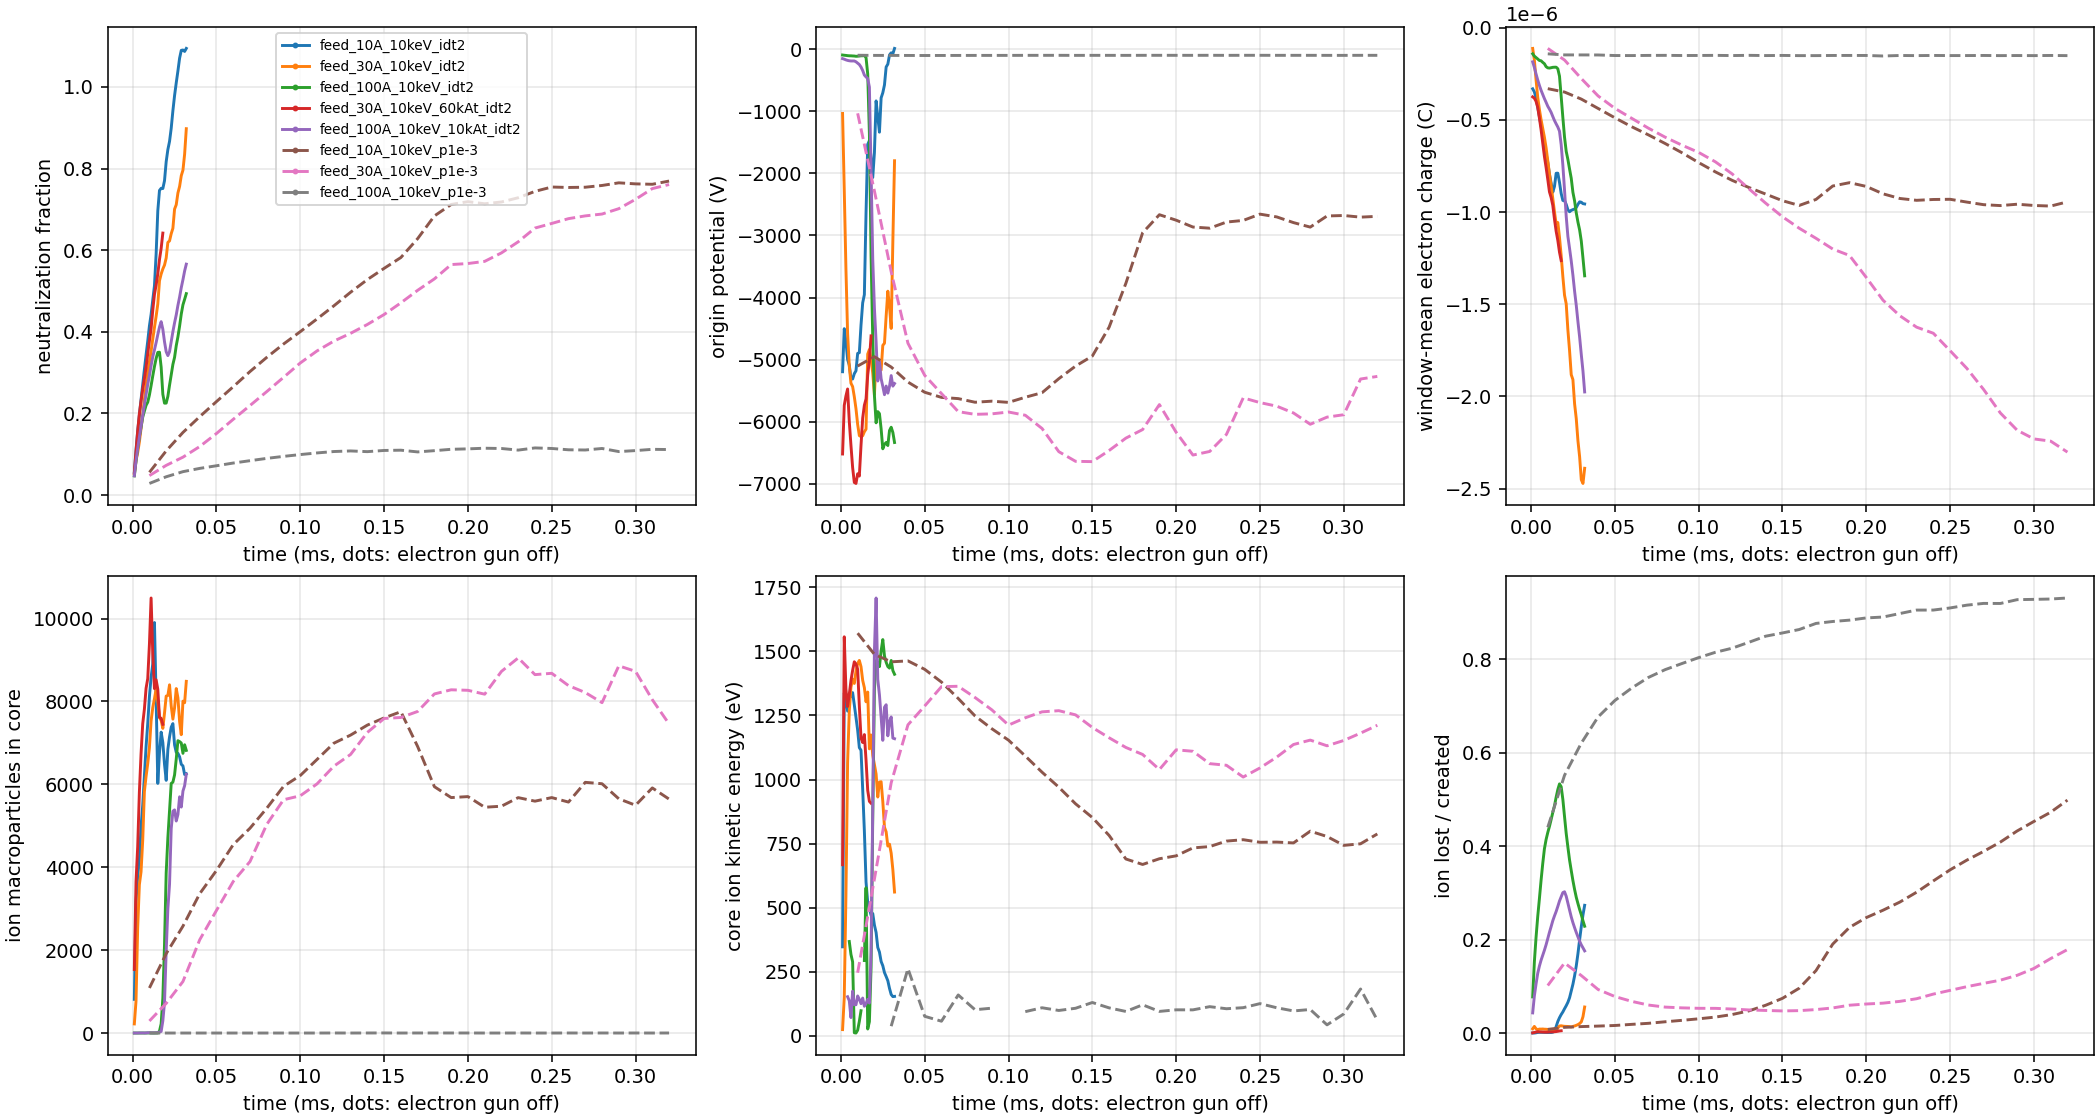
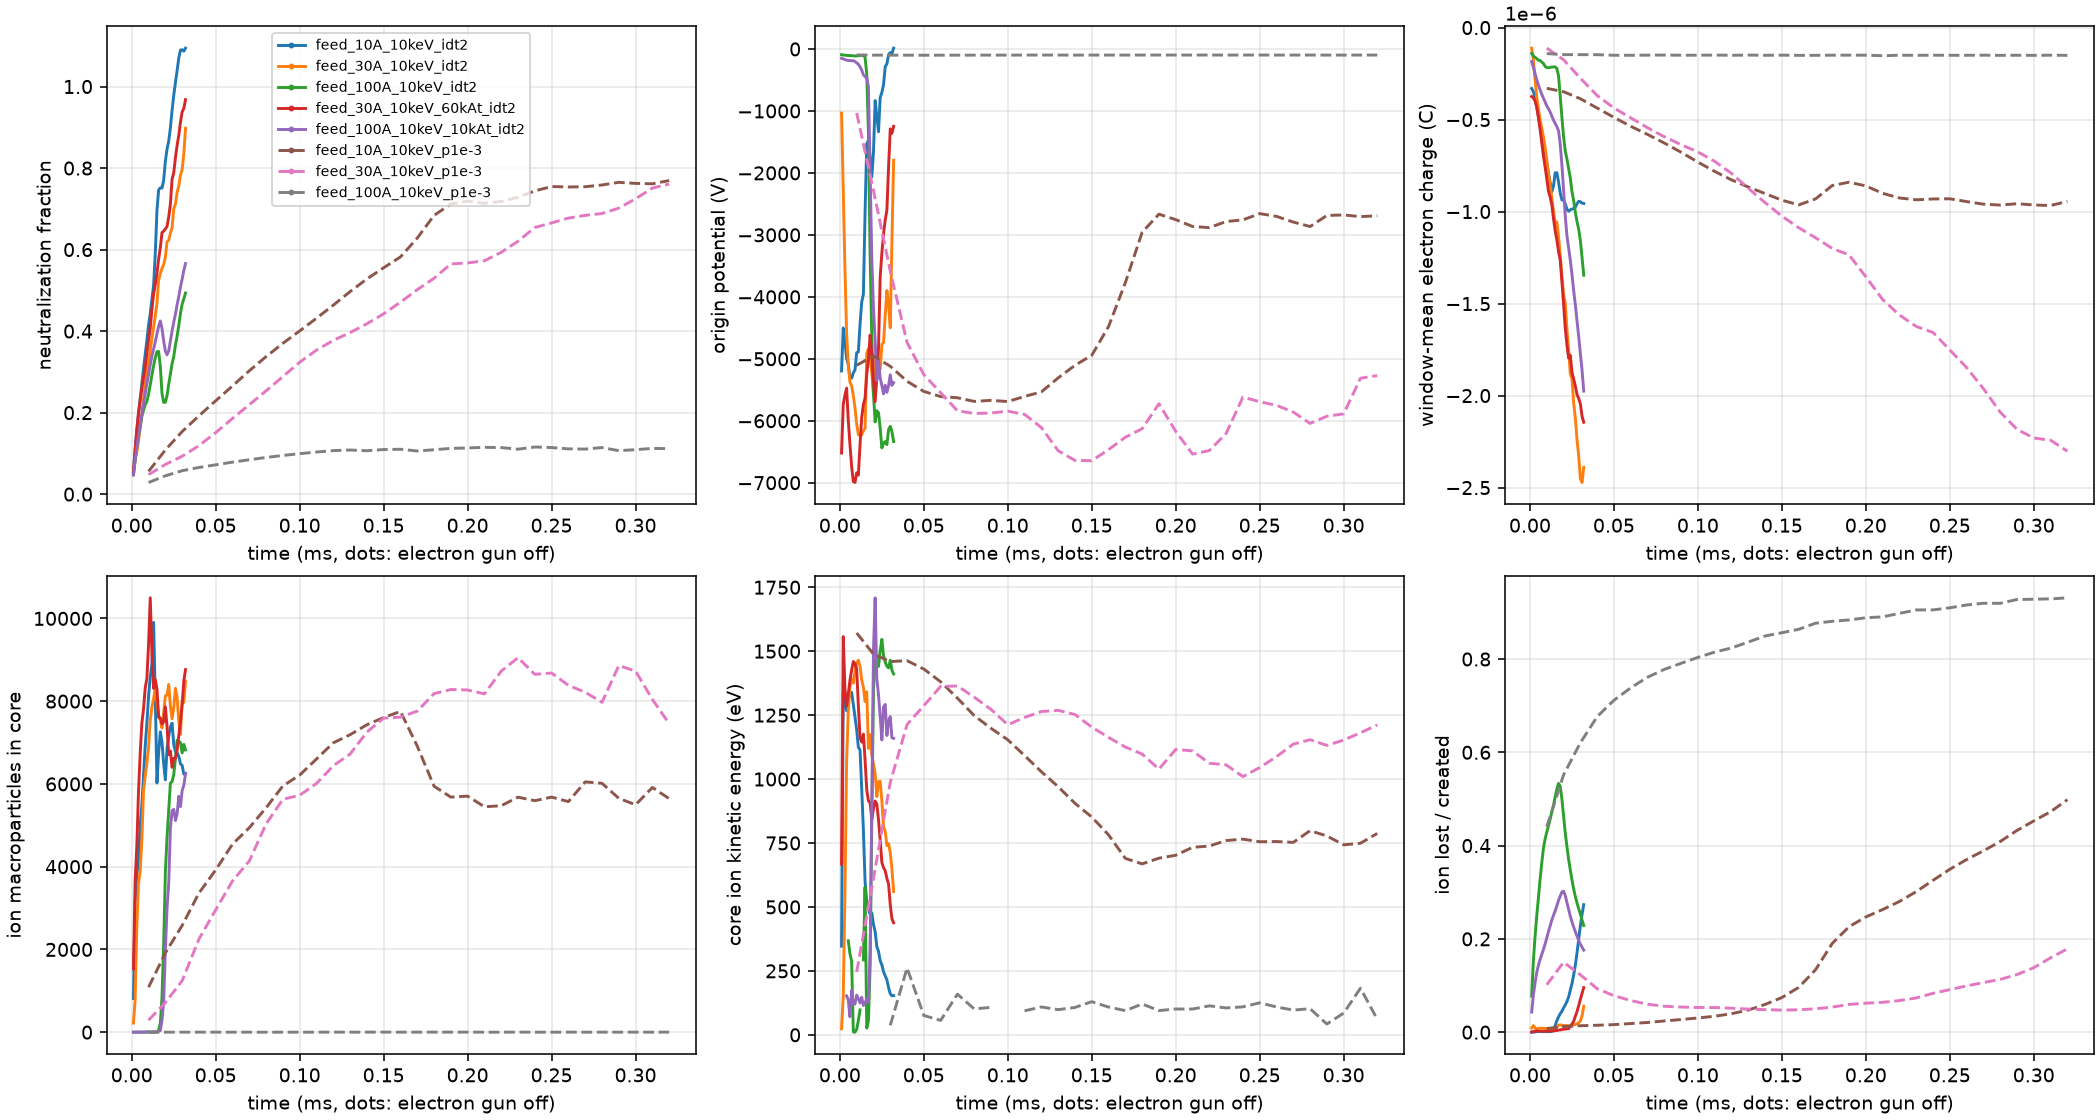
Publish complete high-feed campaign including 60 kA-turn case

diff --git a/web/src/figures.ts b/web/src/figures.ts
@@ -24,7 +24,7 @@ const studies: Study[] = [
   },
   {
     id: "six-coil-feed-fine", title: "High electron feed: 10–100 A with H2 ions (six-coil)",
-    summary: "10 keV gun at 10–100 A, H2 at 1e-3 Pa (320 µs) and 1e-2 Pa (32 µs, transient), 7 of 8 cases complete (60 kA-turn still running, not interpreted). At 1e-3 Pa, 10 A levels off at 0.76 neutralization with the centre at −2.7 kV and ~0.8 keV core ions; 30 A holds −5.7 kV but is still settling. 1 A at the same pressure lost its well. 100 A chokes: a −15 to −23 kV virtual cathode forms at the gun mouth and 99.8% of lost ions fall into the gun barrel. One seed, no cycle-duration control yet.",
+    summary: "10 keV gun at 10–100 A, H2 at 1e-3 Pa (320 µs) and 1e-2 Pa (32 µs, transient), all 8 cases complete. At 1e-3 Pa, 10 A levels off at 0.76 neutralization with the centre at −2.7 kV and ~0.8 keV core ions; 30 A holds −5.7 kV but is still settling. 1 A at the same pressure lost its well. 100 A chokes: a −15 to −23 kV virtual cathode forms at the gun mouth and 99.8% of lost ions fall into the gun barrel. Coils are a weak knob: 60 kA-turn at 30 A (1e-2 Pa) is no deeper than 30 kA-turn. One seed, no cycle-duration control yet.",
     doc: "ion-pic-design.md", figures: pair("six-coil-feed-fine", "High feed"),
   },
   {

diff --git a/docs/ion-pic-design.md b/docs/ion-pic-design.md
@@ -226,11 +226,11 @@ At the first 10 µs cycle the 1 A origin potential is −2.6 kV with −157 nC o
 `run_pic_campaign.py --study six-coil-feed-fine`: the six-coil trap with H2 and H2+, 10 keV gun at
 10–100 A, 10/30/60 kA-turn. Two groups: 1e-2 Pa for 32 × 1 µs cycles with a 0.2 ns ion step (the
 1 ns cases of `six-coil-feed` failed the `omega_pi * dt` check), and 1e-3 Pa for 32 × 10 µs cycles
-(320 µs, 0.5–1 ns ion step). Seven of eight cases have `DONE` and every cycle; ion charge balance
-stayed below 3e-19 C. `feed_30A_10keV_60kAt_idt2` had 18/32 cycles and is not interpreted.
+(320 µs, 0.5–1 ns ion step). All eight cases have `DONE` and every cycle; ion charge balance
+stayed below 3e-19 C.
 Raw output: `/public/jonathan/cusp/runs/pic-98784dc572d0/attempt-20260913-194000-421552263`.
 Summary: `docs/data/pic-six-coil-feed-fine-0efa509.json` (`analyze_ion_pic.py --study
-six-coil-feed-fine --partial`). Last-quarter means; "gun" is the share of lost ions absorbed by the
+six-coil-feed-fine`). Last-quarter means; "gun" is the share of lost ions absorbed by the
 gun barrel.
 
 | Case | Gas | Neutralization | Origin | Gun-mouth minimum | Electron charge | Core ion KE | Ions lost | Gun |
@@ -242,6 +242,7 @@ gun barrel.
 | `feed_30A_10keV_idt2` | 1e-2 Pa | 0.777 | −3903 V | −8.6 kV | −2240 nC | 742 eV | 2% | 30% |
 | `feed_100A_10keV_idt2` | 1e-2 Pa | 0.424 | −6283 V | −15.4 kV | −1090 nC | 1458 eV | 27% | 99.8% |
 | `feed_100A_10keV_10kAt_idt2` | 1e-2 Pa | 0.496 | −5434 V | −14.4 kV | −1650 nC | 1211 eV | 20% | 98% |
+| `feed_30A_10keV_60kAt_idt2` | 1e-2 Pa | 0.889 ± 0.059 | −2178 V | −9.3 kV | −2005 nC | 571 eV | 5% | 15% |
 
 For comparison, 1 A and 300 mA at 5 keV and 1e-3 Pa neutralize to 1.02–1.04 with the centre within
 10 V of ground (`six-coil-ions` above).
@@ -266,7 +267,10 @@ For comparison, 1 A and 300 mA at 5 keV and 1e-3 Pa neutralize to 1.02–1.04 wi
   needs a lower-perveance gun (larger emitter or several guns), not a single brighter one.
 - **The 1e-2 Pa runs are transient.** Neutralization is still rising at 32 µs in every case and
   10 A has already overshot to 1.06; treat them as the fast-pressure limit, not an equilibrium.
-- **Coil current is a weak knob here.** 100 A at 10 kA-turn is within ~15% of 30 kA-turn.
+- **Coil current is a weak knob here.** 100 A at 10 kA-turn is within ~15% of 30 kA-turn. At 30 A,
+  60 kA-turn neutralizes further (0.89 vs 0.78) and leaves the centre shallower (−2.2 vs −3.9 kV);
+  both differences are about one last-quarter spread (±0.06, ±0.8–0.9 kV) in a transient run, so
+  stronger coils do not preserve the well against 1e-2 Pa.
 - Limits: two-timescale splitting, no gas depletion (the 100 A ion inventory is below 1e-5 of the
   gas), no plasma magnetic field, one seed, and no cycle-duration control at 10–30 A yet. The
   plateau needs those controls and a longer run before it is a design number.
